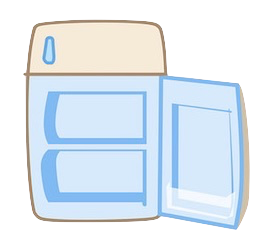
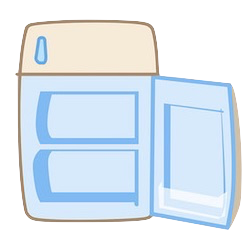
reactify and fix bugs

diff --git a/client/src/layouts/HomePage.js b/client/src/layouts/HomePage.js
@@ -8,6 +8,17 @@ import Typography from '@material-ui/core/Typography'
 
 import MenuIcon from '@material-ui/icons/Menu'
 
+import { FontAwesomeIcon } from '@fortawesome/react-fontawesome'
+import {
+  faAppleAlt,
+  faCheese,
+  faFish,
+  faHamburger,
+  faHotdog,
+  faIceCream,
+  faPizzaSlice
+} from '@fortawesome/free-solid-svg-icons'
+
 import { NavContainer } from '../components/organisms'
 import { useAuth0 } from '../utils/auth0'
 import { useFoodApi } from '../utils/api'
@@ -79,28 +90,35 @@ function HomePage () {
             </Button>
           </Toolbar>
         </AppBar>
-        <div className='photoBlock'>
-          <img height='100%' draggable='false' src='/fridge.png' alt='fridge' />
+        <Typography
+          style={{ textAlign: 'center', padding: '0.5em' }}
+          variant='h4'
+        >
+          Manage your refrigerator easily
+        </Typography>
+        <div style={{ display: 'flex', justifyContent: 'center' }}>
+          <img
+            className='cover-image'
+            draggable='false'
+            src='/fridge.png'
+            alt='fridge'
+          />
         </div>
-        <div className='fas fa-cheese' />
-        <div className='fas fa-apple-alt' />
-        <div className='fas fa-carrot' />
-        <div className='fas fa-hamburger' />
-        <div className='fas fa-pizza-slice' />
-        <div className='fas fa-fish' />
-        <div className='fas fa-hotdog' />
-        <div className='far fa-lemon' />
-        <div className='fas fa-candy-cane' />
-        <div className='fas fa-ice-cream' />
-        <div className='text'>Manage your refrigerator easily</div>
-        <div
-          className='button'
-          onClick={() => {
-            /* TODO: */
-          }}
-        />
-        <Typography />
-        <Typography>TODO: Insert instructions</Typography>
+        <div className='food-icons-container'>
+          <FontAwesomeIcon className='food-icon' icon={faCheese} />
+          <FontAwesomeIcon className='food-icon' icon={faAppleAlt} />
+          <FontAwesomeIcon className='food-icon' icon={faHamburger} />
+          <FontAwesomeIcon className='food-icon' icon={faPizzaSlice} />
+          <FontAwesomeIcon className='food-icon' icon={faFish} />
+          <FontAwesomeIcon className='food-icon' icon={faHotdog} />
+          <FontAwesomeIcon className='food-icon' icon={faIceCream} />
+        </div>
+        <Typography
+          style={{ textAlign: 'center', padding: '1em' }}
+          variant='h5'
+        >
+          To start, login in and add items to your fridge.
+        </Typography>
       </NavContainer>
     </div>
   )

diff --git a/client/src/layouts/HomePage.css b/client/src/layouts/HomePage.css
@@ -3,71 +3,23 @@
   min-height: 100%;
 }
 
-.fas,.far {
-  font-size:2.5em;
-  position:absolute;
-  animation:float 2s infinite linear;
-}
-@keyframes float {
-  0%   {margin-top:0}
-  50%  {margin-top:5px}
-  100% {margin-top:0}
+.food-icons-container {
+  display: flex;
+  font-size: 1.75em;
+  justify-content: center;
+  margin-left: 1em;
+  margin-right: 1em;
 }
 
-.fa-fish {top:40%; left:25%;}
-.fa-lemon {top:30%; left:30%}
-.fa-hotdog {top:25%; left:40%}
-.fa-cheese {top:40%; left:75%;}
-.fa-hamburger {top:25%; left:55%;}
-.fa-pizza-slice {top:30%; left:65%;}
-.fa-apple-alt {top:50%; left:23%}
-.fa-candy-cane {top:50%; left:78%}
-.fa-carrot {top:61%; left:27%}
-.fa-ice-cream {top:61%; left:74%}
-
-.photoBlock {
-  height:18.5em; width:20em;
-  margin:0 auto;
-  position:absolute;
-  top:50%; left:50%;
-  transform: translate(-40%, -50%);
+.food-icon {
+  display: inline;
+  padding: 0.1em;
 }
 
-.text {
-  font-size:2.5em;
-  text-align:center;
+.cover-image {
+  height: 40vh;
+  margin: 0;
+  max-height: 60vw;
+  max-width: 60vw;
+  width: 40vh;
 }
-
-.button {
-  height:4em; width:7.5em;
-  margin:0 auto;
-  transform: translateY(32em);
-  cursor:pointer;
-  border-radius:25px;
-  box-shadow:0 0 0 5px rgba(93, 177, 255);
-  background-color:#5db1ff;
-}
-
-.button:before {
-  color:#5db1ff;
-  position:absolute;
-  top:50%; left:50%; content:"Start";
-  transform: translate(-50%, -50%); 
-  font-size:2em; font-weight:bold;
-  font-family:'MicroSoft YaHei',cursive;
-  display:block;
-  z-index:1;
-}
-
-.button:after {
-  position:absolute;
-  content:"";
-  width:100%; height:100%;
-  border-radius:25px;
-  background-color:white;
-  transition: transform .7s, opacity .7s;
-}
-
-.button:active {position:relative; top:2px;}
-.button:hover:before {color:#fff;}
-.button:hover:after {transform:scale(1.2); opacity:0;}

diff --git a/client/src/components/molecules/NavigationDrawer.js b/client/src/components/molecules/NavigationDrawer.js
@@ -44,12 +44,17 @@ function NavigationDrawer ({
         }}
       >
         <List>
-          <ListItem button component={Link} to='/'>
+          <ListItem button component={Link} to='/' onClick={() => onClose()}>
             <ListItemText primary='Home' />
           </ListItem>
           {authenticated ? (
             <>
-              <ListItem button component={Link} to='/fridge'>
+              <ListItem
+                button
+                component={Link}
+                to='/fridge'
+                onClick={() => onClose()}
+              >
                 <ListItemText primary='View Fridge' />
               </ListItem>
               <ListItem button onClick={() => onAddFood()}>

diff --git a/client/src/utils/auth0.js b/client/src/utils/auth0.js
@@ -117,7 +117,8 @@ export const Auth0Provider = ({ children, redirectURI }) => {
         getIdTokenClaims: (...p) => auth0Client.getIdTokenClaims(...p),
         getTokenSilently: (...p) => auth0Client.getTokenSilently(...p),
         getTokenWithPopup: (...p) => auth0Client.getTokenWithPopup(...p),
-        logout: (...p) => auth0Client.logout(...p)
+        logout: (...p) =>
+          auth0Client.logout({ returnTo: window.location.origin, ...p })
       }}
     >
       {children}

diff --git a/client/public/index.html b/client/public/index.html
@@ -9,7 +9,6 @@
       name="description"
       content="Web site created using create-react-app"
     />
-    <script src="https://kit.fontawesome.com/b38c50149b.js"></script>
     <link rel="apple-touch-icon" href="logo192.png" />
     <!--
       manifest.json provides metadata used when your web app is installed on a

diff --git a/client/src/index.css b/client/src/index.css
@@ -6,3 +6,7 @@ body,
 
   margin: 0;
 }
+
+body {
+  min-width: 300px;
+}
